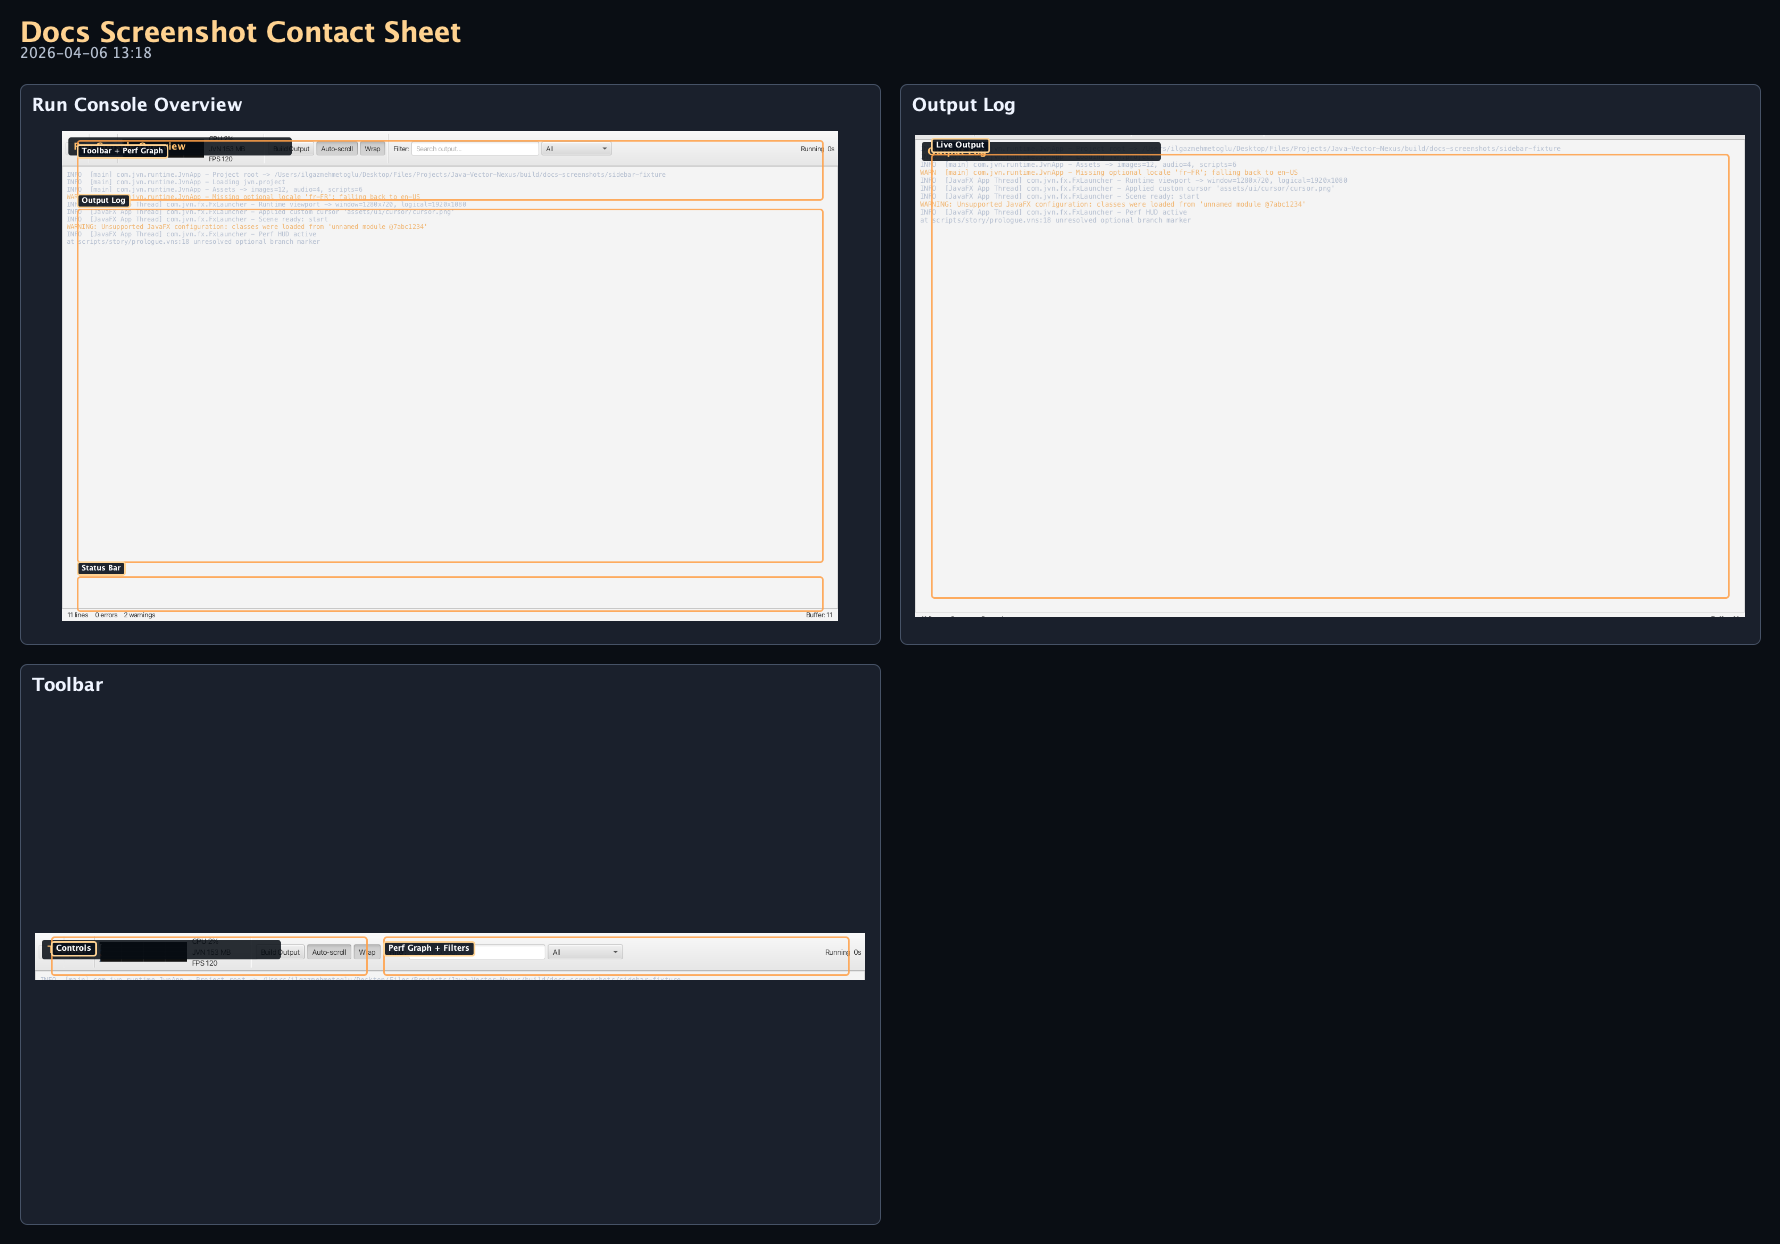
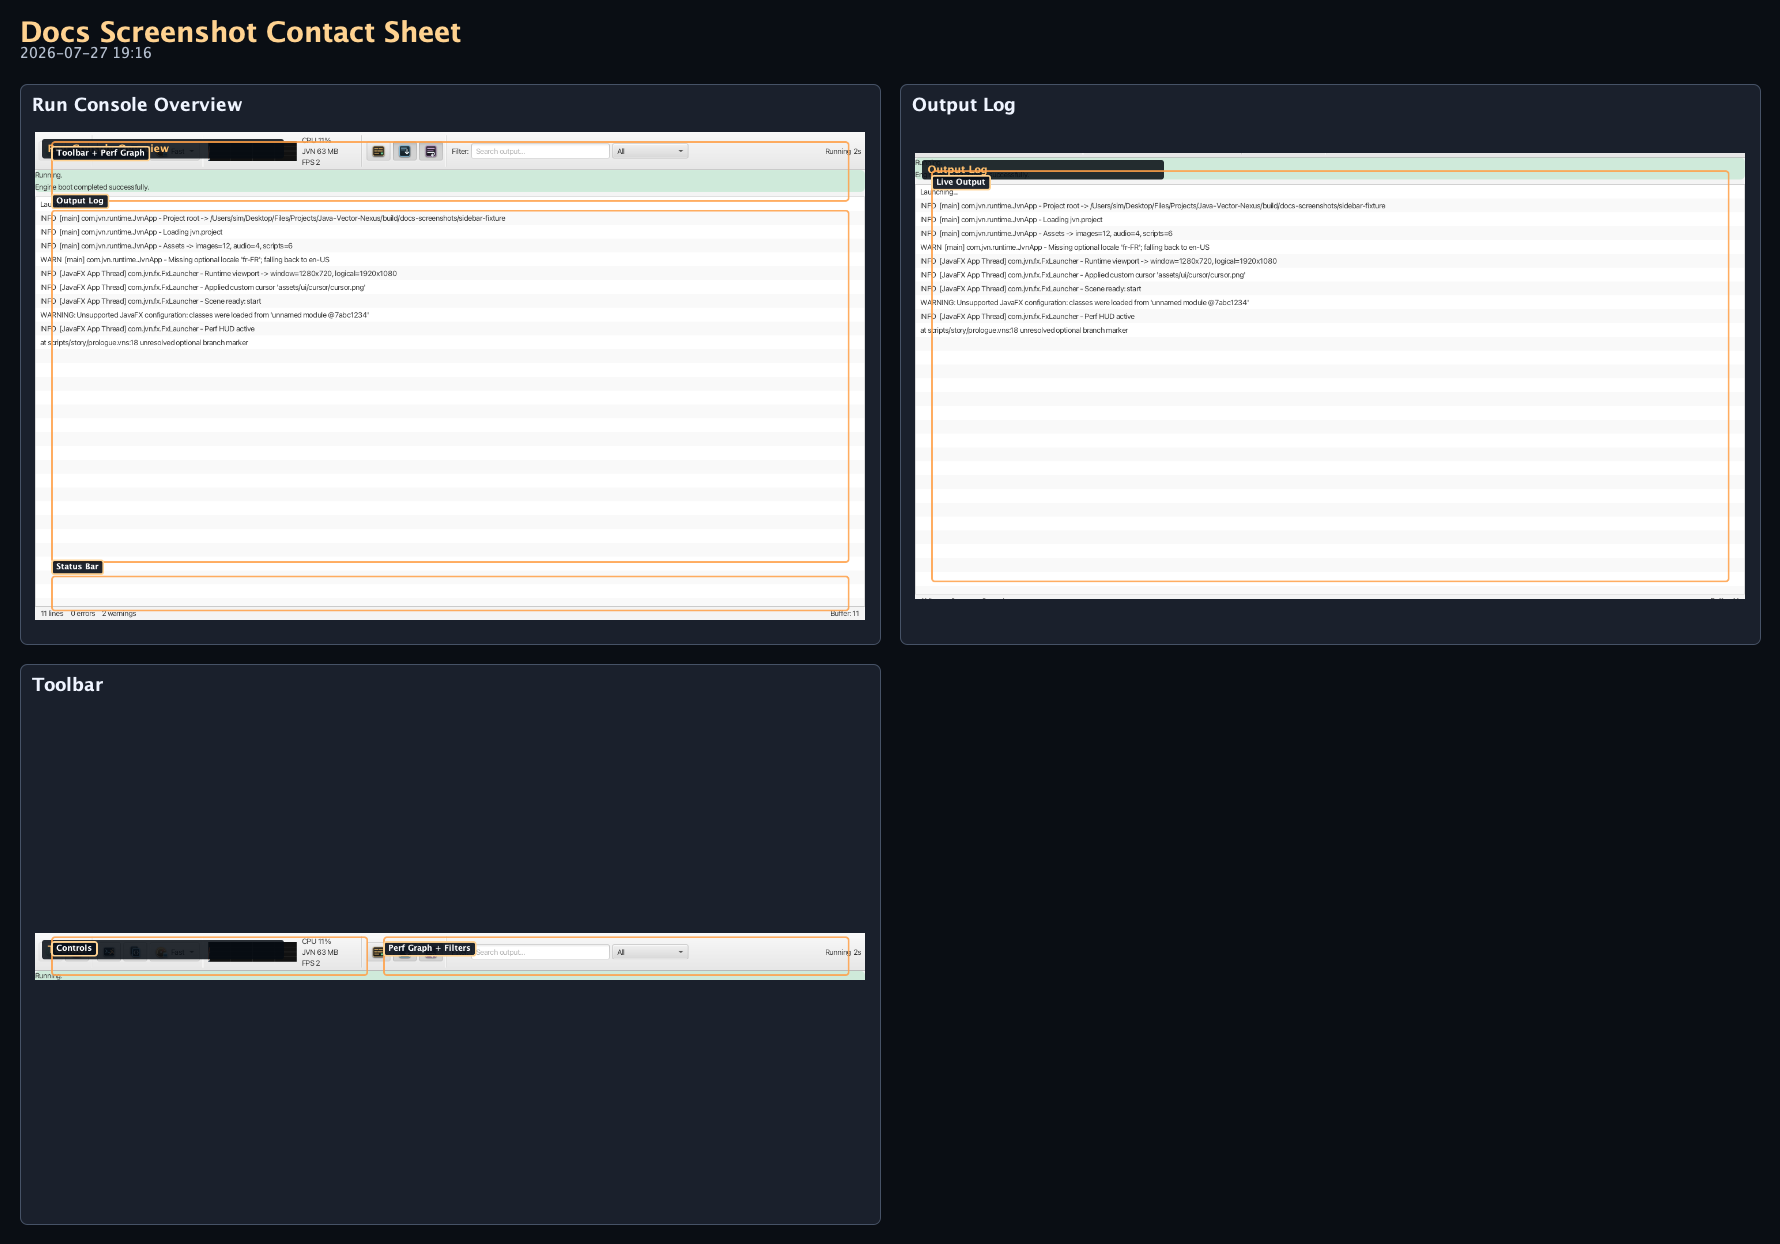
Refresh runtime console documentation

Changed region(s): [[0.0, 0.0916, 0.9888, 0.5193], [0.0309, 0.7331, 0.4944, 0.7942]]

diff --git a/docs/editor/core/run-console.md b/docs/editor/core/run-console.md
@@ -8,14 +8,16 @@ Source: `modules/editor/src/main/java/com/jvn/editor/ui/RunConsoleView.java`
 
 ## Overview
 
-The Run Console opens as a bottom panel when a project is launched from the editor (via the Project Explorer **Run** button or `Project > Run`). It attaches to the Gradle build process, streams stdout in real time, and classifies each line for smart filtering and coloring.
+The Run Console opens in its own runtime window when a project is launched from the editor or
+standalone launcher. It attaches to the Gradle build process, streams stdout in real time, and
+classifies each line for smart filtering and coloring.
 
 ## UI Layout
 
 <!-- AUTO-RUN_CONSOLE-SCREENSHOTS:START -->
 ### Visual Reference (Auto-Generated)
 
-_Generated by `./gradlew :editor:generateDocsScreenshots -Djvn.docs.profile=run-console` on 2026-04-06 13:18._
+_Generated by `./gradlew :editor:generateDocsScreenshots -Djvn.docs.profile=run-console` on 2026-07-27 19:16._
 
 #### Contact Sheet
 
@@ -61,12 +63,39 @@ The console tracks a state machine displayed in the status bar:
 | Button | Description |
 |--------|-------------|
 | **Run** | Re-run the last build (enabled when stopped or failed) |
-| **Stop** | Kill the running process |
-| **Copy** | Copy the last traceback/error block to clipboard |
+| **Stop** | Stop the Gradle build and its spawned runtime process tree |
+| **Copy** | Copy the visible output to the clipboard |
 | **Clear** | Clear all output |
-| **Build Output** | Toggle — show/hide suppressed Gradle noise lines |
-| **Auto-scroll** | Toggle — auto-scroll to latest output |
-| **Wrap** | Toggle — word-wrap long lines |
+| **Launch Options** | Choose cached/compatible Gradle behavior for the next run |
+| **Build Output icon** | Toggle suppressed Gradle noise lines |
+| **Auto-scroll icon** | Toggle scrolling to the latest output |
+| **Wrap icon** | Toggle wrapping for long output lines |
+
+The command strip uses purpose-built vector icons. Active toggle buttons receive a blue selection
+rim, while Run and Stop retain distinct green and red treatments.
+
+## Gradle Launch Options
+
+Open the speedometer/cache button in the toolbar to configure the next launch. Changes are saved in
+`~/.jvn-editor/runtime-gradle.properties` and shared by runtime windows opened from either the editor
+or standalone launcher.
+
+The default **Fast Launch** preset mirrors JVN's optimized source-launch policy:
+
+- reuse a warm Gradle daemon;
+- reuse the Gradle build cache and configuration cache;
+- allow parallel project execution;
+- use at most two Gradle workers so the editor remains responsive;
+- share downloaded dependencies between JVN projects through
+  `GRADLE_USER_HOME` when configured, or Gradle's normal `~/.gradle` home.
+
+Use **Compatibility** when diagnosing a project-specific Gradle problem. It uses a single-use
+daemon, disables configuration caching and parallel execution, and returns to the project's
+`.jvn-gradle-user-home` directory. Build-cache reuse remains enabled because it does not retain a
+configured project model.
+
+Every option can also be changed individually. A running build is not altered mid-flight; the
+selected policy applies when the project is next run or re-run.
 
 ---
 
@@ -131,7 +160,11 @@ The console includes a mini menu bar with:
 
 - **Console** menu — Clear, Copy All, Save to File, Close
 - **View** menu — toggle Build Output, Auto-scroll, Word Wrap
+- **Run** menu — re-run, stop, or open Gradle Launch Options
 - Keyboard accelerators for common actions
+
+Closing the runtime window stops the game process tree, including audio playback. When daemon reuse
+is enabled, the idle Gradle daemon is deliberately left warm for the next launch.
 
 ---
 

diff --git a/docs/editor/core/generated-run-console-screenshots.md b/docs/editor/core/generated-run-console-screenshots.md
@@ -2,7 +2,7 @@
 
 ### Visual Reference (Auto-Generated)
 
-_Generated by `./gradlew :editor:generateDocsScreenshots -Djvn.docs.profile=run-console` on 2026-04-06 13:18._
+_Generated by `./gradlew :editor:generateDocsScreenshots -Djvn.docs.profile=run-console` on 2026-07-27 19:16._
 
 #### Contact Sheet
 
